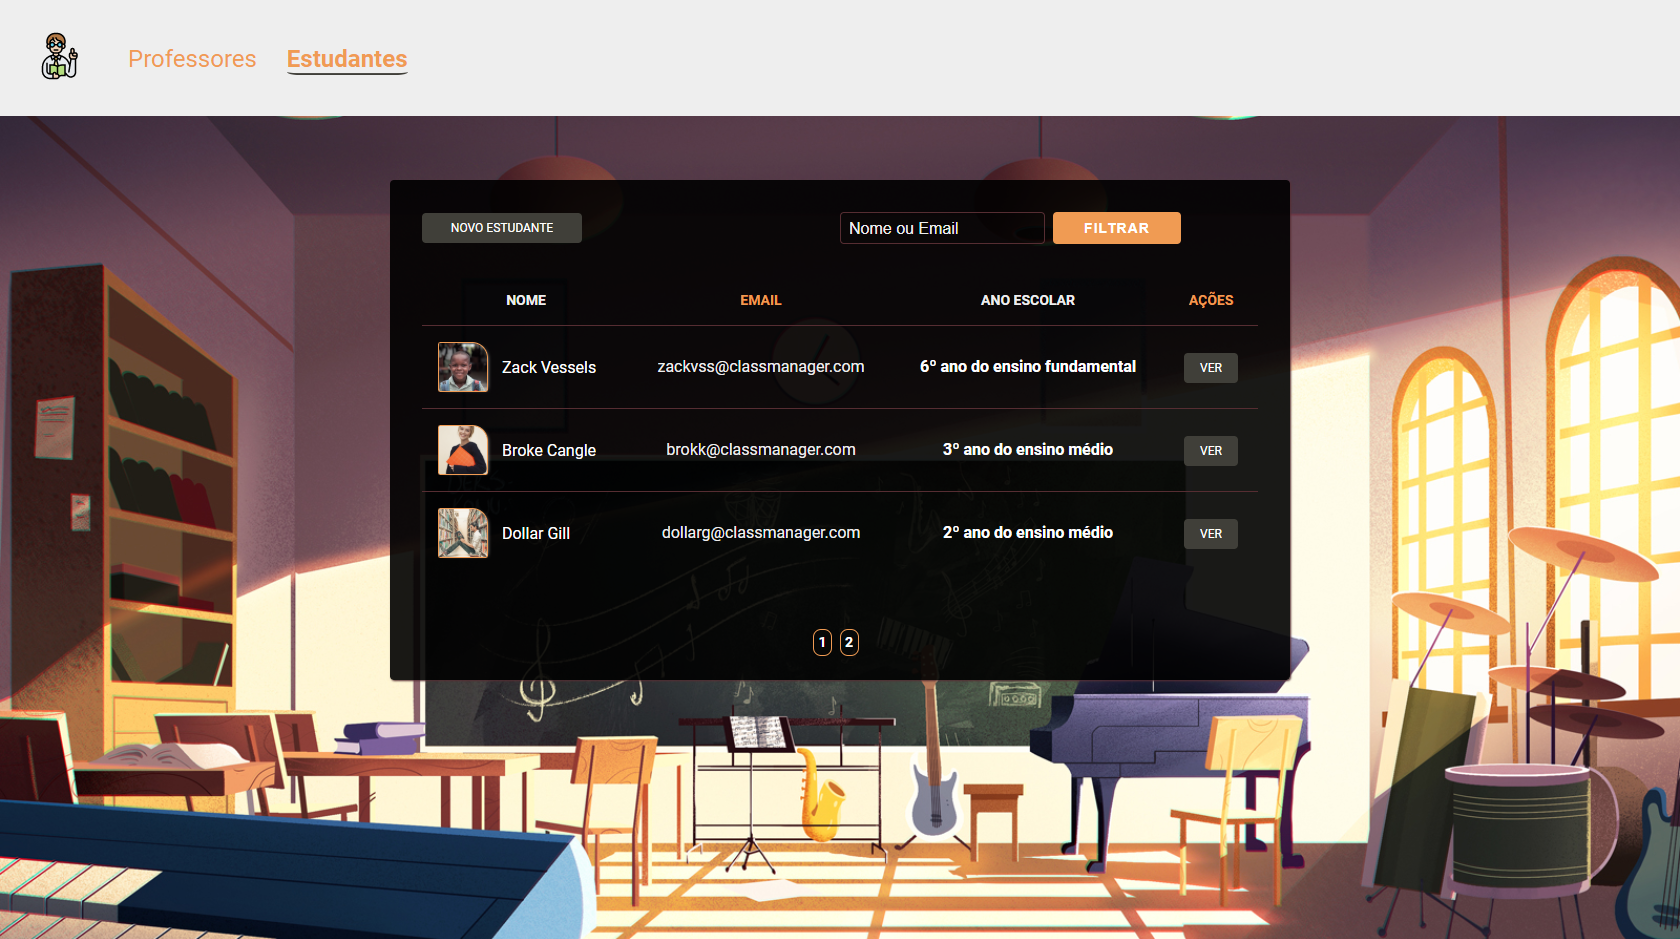
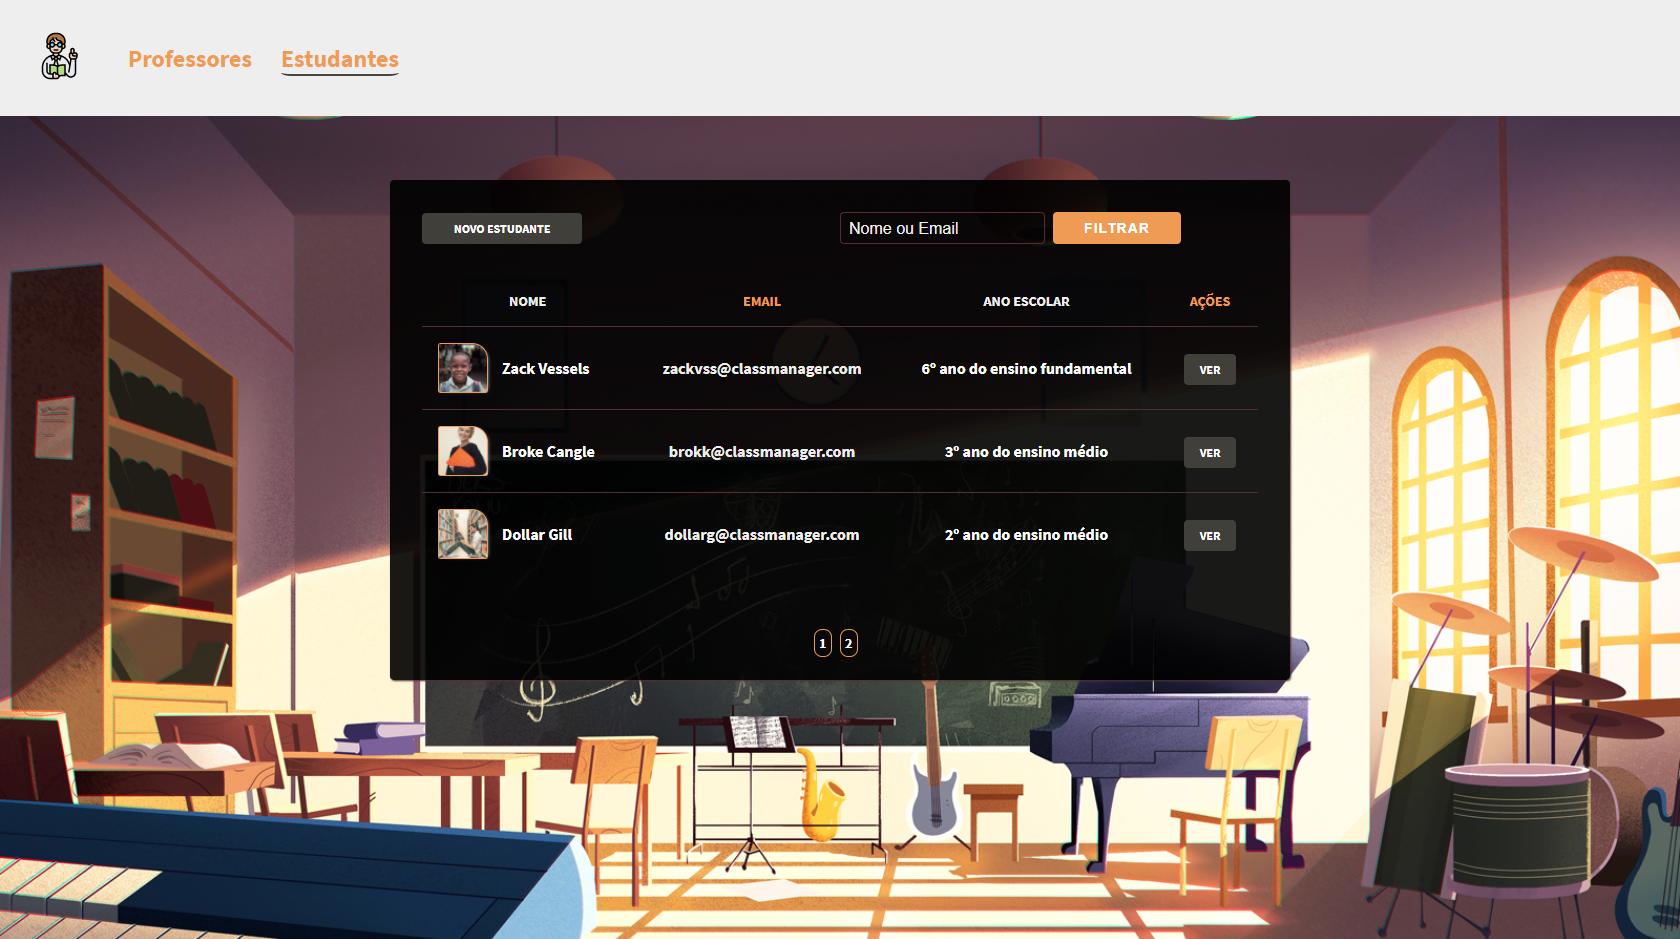
Update README.md

diff --git a/public/styles/main.css b/public/styles/main.css
@@ -1,4 +1,4 @@
-@import url('https://fonts.googleapis.com/css2?family=Roboto:wght@400;700&display=swap');
+@import url('https://fonts.googleapis.com/css2?family=Source+Sans+Pro:ital,wght@0,700;1,300;1,400&display=swap');
 
 :root {
     --primary-color: #F09B53;
@@ -14,7 +14,7 @@
 }
 
 body {
-    font-family: 'Roboto', sans-serif;
+    font-family: 'Source Sans Pro', sans-serif;
     background-image: url(https://cdn.dribbble.com/users/274876/screenshots/12285845/media/6a3dfde9b79e6151fb12716d124dc786.jpg);
     background-position: center;
     background-repeat: no-repeat;

diff --git a/src/config/db.js b/src/config/db.js
@@ -2,7 +2,7 @@ const { Pool } = require('pg')
 
 module.exports = new Pool ({
     user: "leonardo",
-    password: "1595763",
+    password: "dev123",
     host: "localhost",
     port: 5432,
     database: "my_teacher"

diff --git a/README.md b/README.md
@@ -216,33 +216,25 @@ Nessa etapa, você deve implementar a lógica de paginação dos resultados do B
 
 <h1 align="center"> Resultados finais 📷 </h1>
 
-**Barra de navegação 🧭**
-
-![navbar](.github/navbar.gif)
-
 **Professores 👨🏫👩🏫**
 
-![teachers](/.github/teachers.png)
+![teachers](./.github/teachers.png)
 
 **Estudantes 👨🎓👩🎓**
 
-![students](/.github/students.png)
+![students](.github/students.png)
 
 **Card do professor 🎴**
 
-![teacher-card](/.github/teacher-card.png)
+![teacher](.github/teacher.png)
 
 **Card do estudante 🃏**
 
-![student-card](/.github/student-card.png)
+![student](./.github/student.png)
 
 **Filtro 🥅**
 
-![filter](/.github/filter.gif)
-
-**Paginação 📟**
-
-![pagination](/.github/pagination.gif)
+![filter](./.github/filter.png)
 
 ---
 
